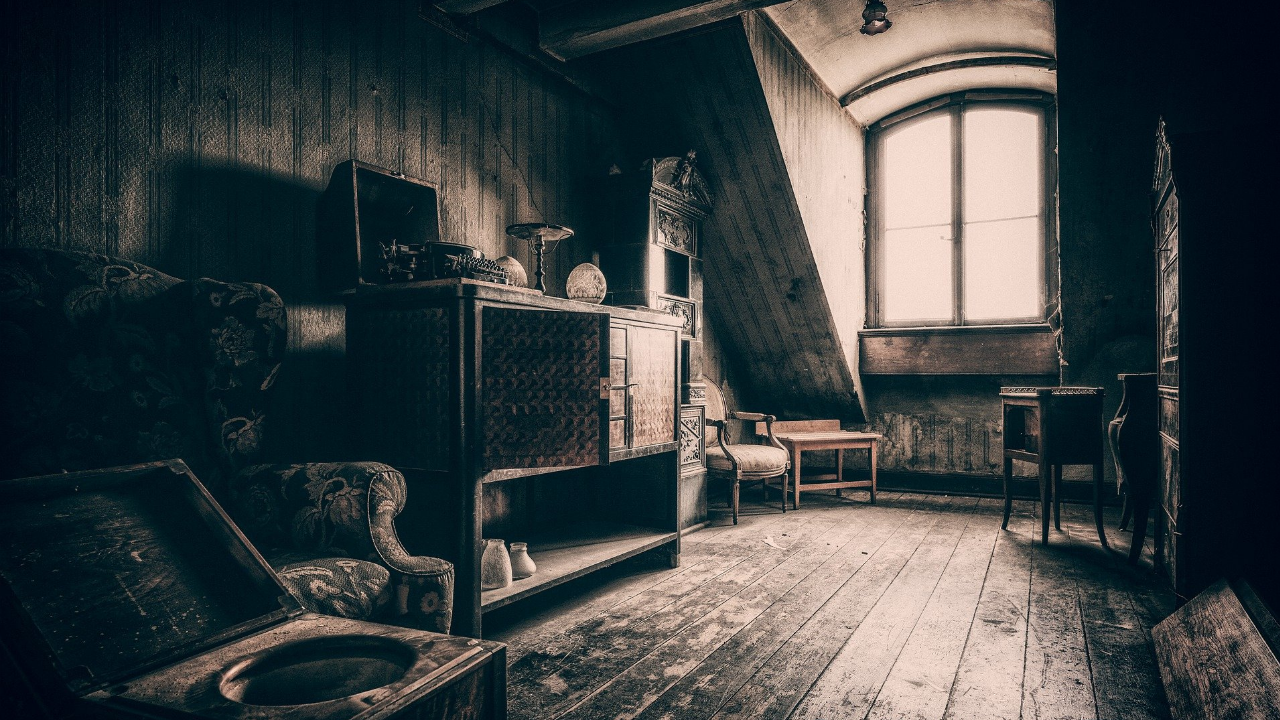
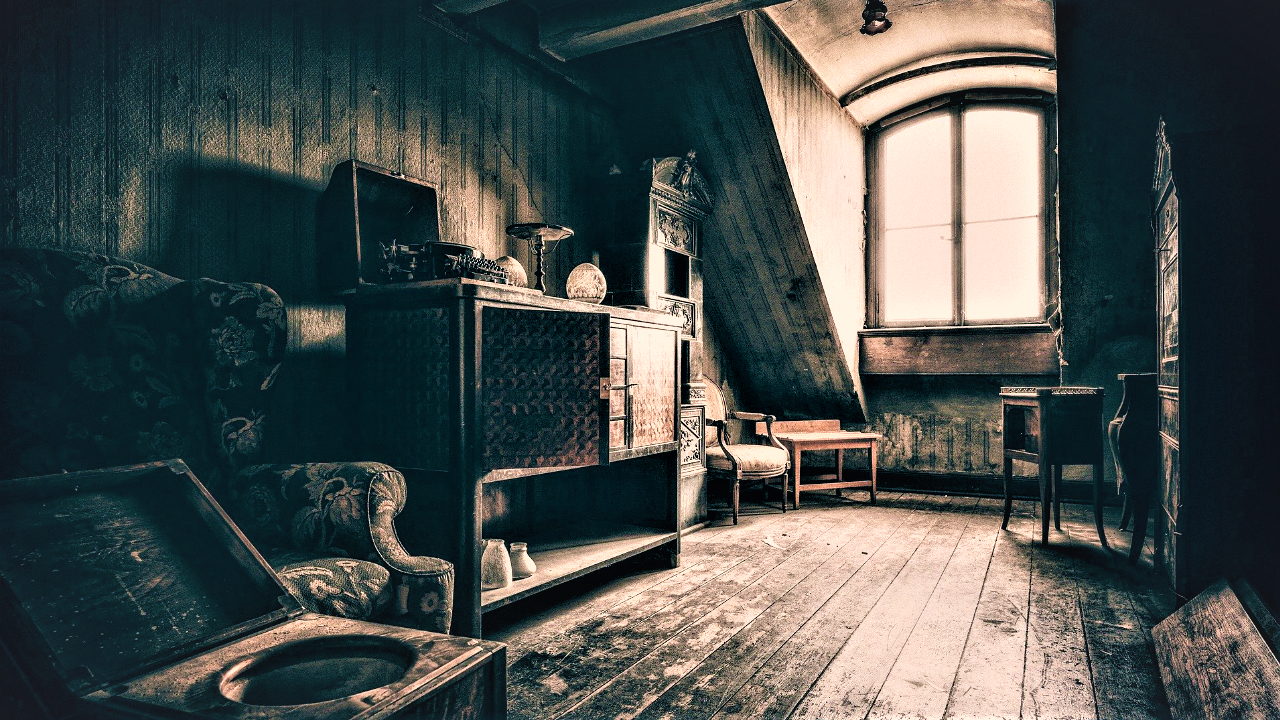
Add files via upload

diff --git a/Jeu d'aventure Tousaint.py b/Jeu d'aventure Tousaint.py
@@ -2,7 +2,6 @@
 Programme réalisé par Gillot Thomas, 1G7
 """
 import pygame
-
 #initialisation graphique
 pygame.init()
 fenetre = pygame.display.set_mode((1280, 720))
@@ -36,12 +35,15 @@ image8 = pygame.image.load("cabane.png")
 text8 = font.render("Vous êtes dans le cabanon", True, (0, 0, 0))
 text88 = font.render("Vous avez trouvé la clé du grenier", True, (0, 0, 0))
 
-image9 = pygame.image.load("grenier.png")
+image9 = pygame.image.load("grenier sombre.png")
 text9 = font.render("Vous êtes dans le grenier", True, (255, 255, 255))
 
+image10 = pygame.image.load("grenier.png")
+text10 = font.render("Vous êtes dans le grenier", True, (255, 255, 255))
 
 Personnage=1
 clé=0
+lampe=0
 
 def decrireLaPiece(piece):
     if piece==1:
@@ -80,11 +82,16 @@ def decrireLaPiece(piece):
         fenetre.blit(image9,(0,0))
         fenetre.blit(text9,(10,690))
         fenetre.blit(image0,(0,0))
+    elif piece==10:
+        fenetre.blit(image10,(0,0))
+        fenetre.blit(text10,(10,690))
+        fenetre.blit(image0,(0,0))
 
 
 def decision(direction,piece):    #la fonction decision permet de se déplacer
     memorisePiece=piece
     global clé
+    global lampe
 
     if direction=='z':    #Z : le personnage désire aller au nord
         if piece==1:
@@ -95,6 +102,7 @@ def decision(direction,piece):    #la fonction decision permet de se déplacer
             piece=8
             if clé==0:
                 print("Vous avez trouvé la clé du grenier")
+                print("----------------------------------")
                 clé=1
 
     elif direction=='s':    #S : le personnage désire aller au sud
@@ -114,10 +122,16 @@ def decision(direction,piece):    #la fonction decision permet de se déplacer
             piece=5
         elif piece==6:
             piece=4
+        elif piece==7 and lampe==1:
+            piece=10
+            print("Vous avez fini le jeu, vous pouvez quitté en appuyant sur la touche 'l'")
         elif piece==7 and clé==1:
             piece=9
+            print("Vous n'y voyez pas grand chose, allez chercher une lampe de poche")
+            print("-----------------------------------------------------------------")
         else:
-            print("Vous devez trouvez le clé pour accédez au grenier")
+            print("Vous devez trouvé la clé pour accédez au grenier")
+            print("-------------------------------------------------")
 
     elif direction=='q':    #Q : le personnage désire aller à l'ouest
         if piece==1:
@@ -128,11 +142,16 @@ def decision(direction,piece):    #la fonction decision permet de se déplacer
             piece=4
         elif piece==4:
             piece=6
+            if clé==1:
+                lampe=1
+                print("Vous venez de trouvé une lampe de poche d'un un placard")
+                print("-------------------------------------------------------")
         elif piece==9:
             piece=7
 
     if memorisePiece==piece:
         print("Deplacement impossible")
+        print("----------------------")
     return piece
 
 
